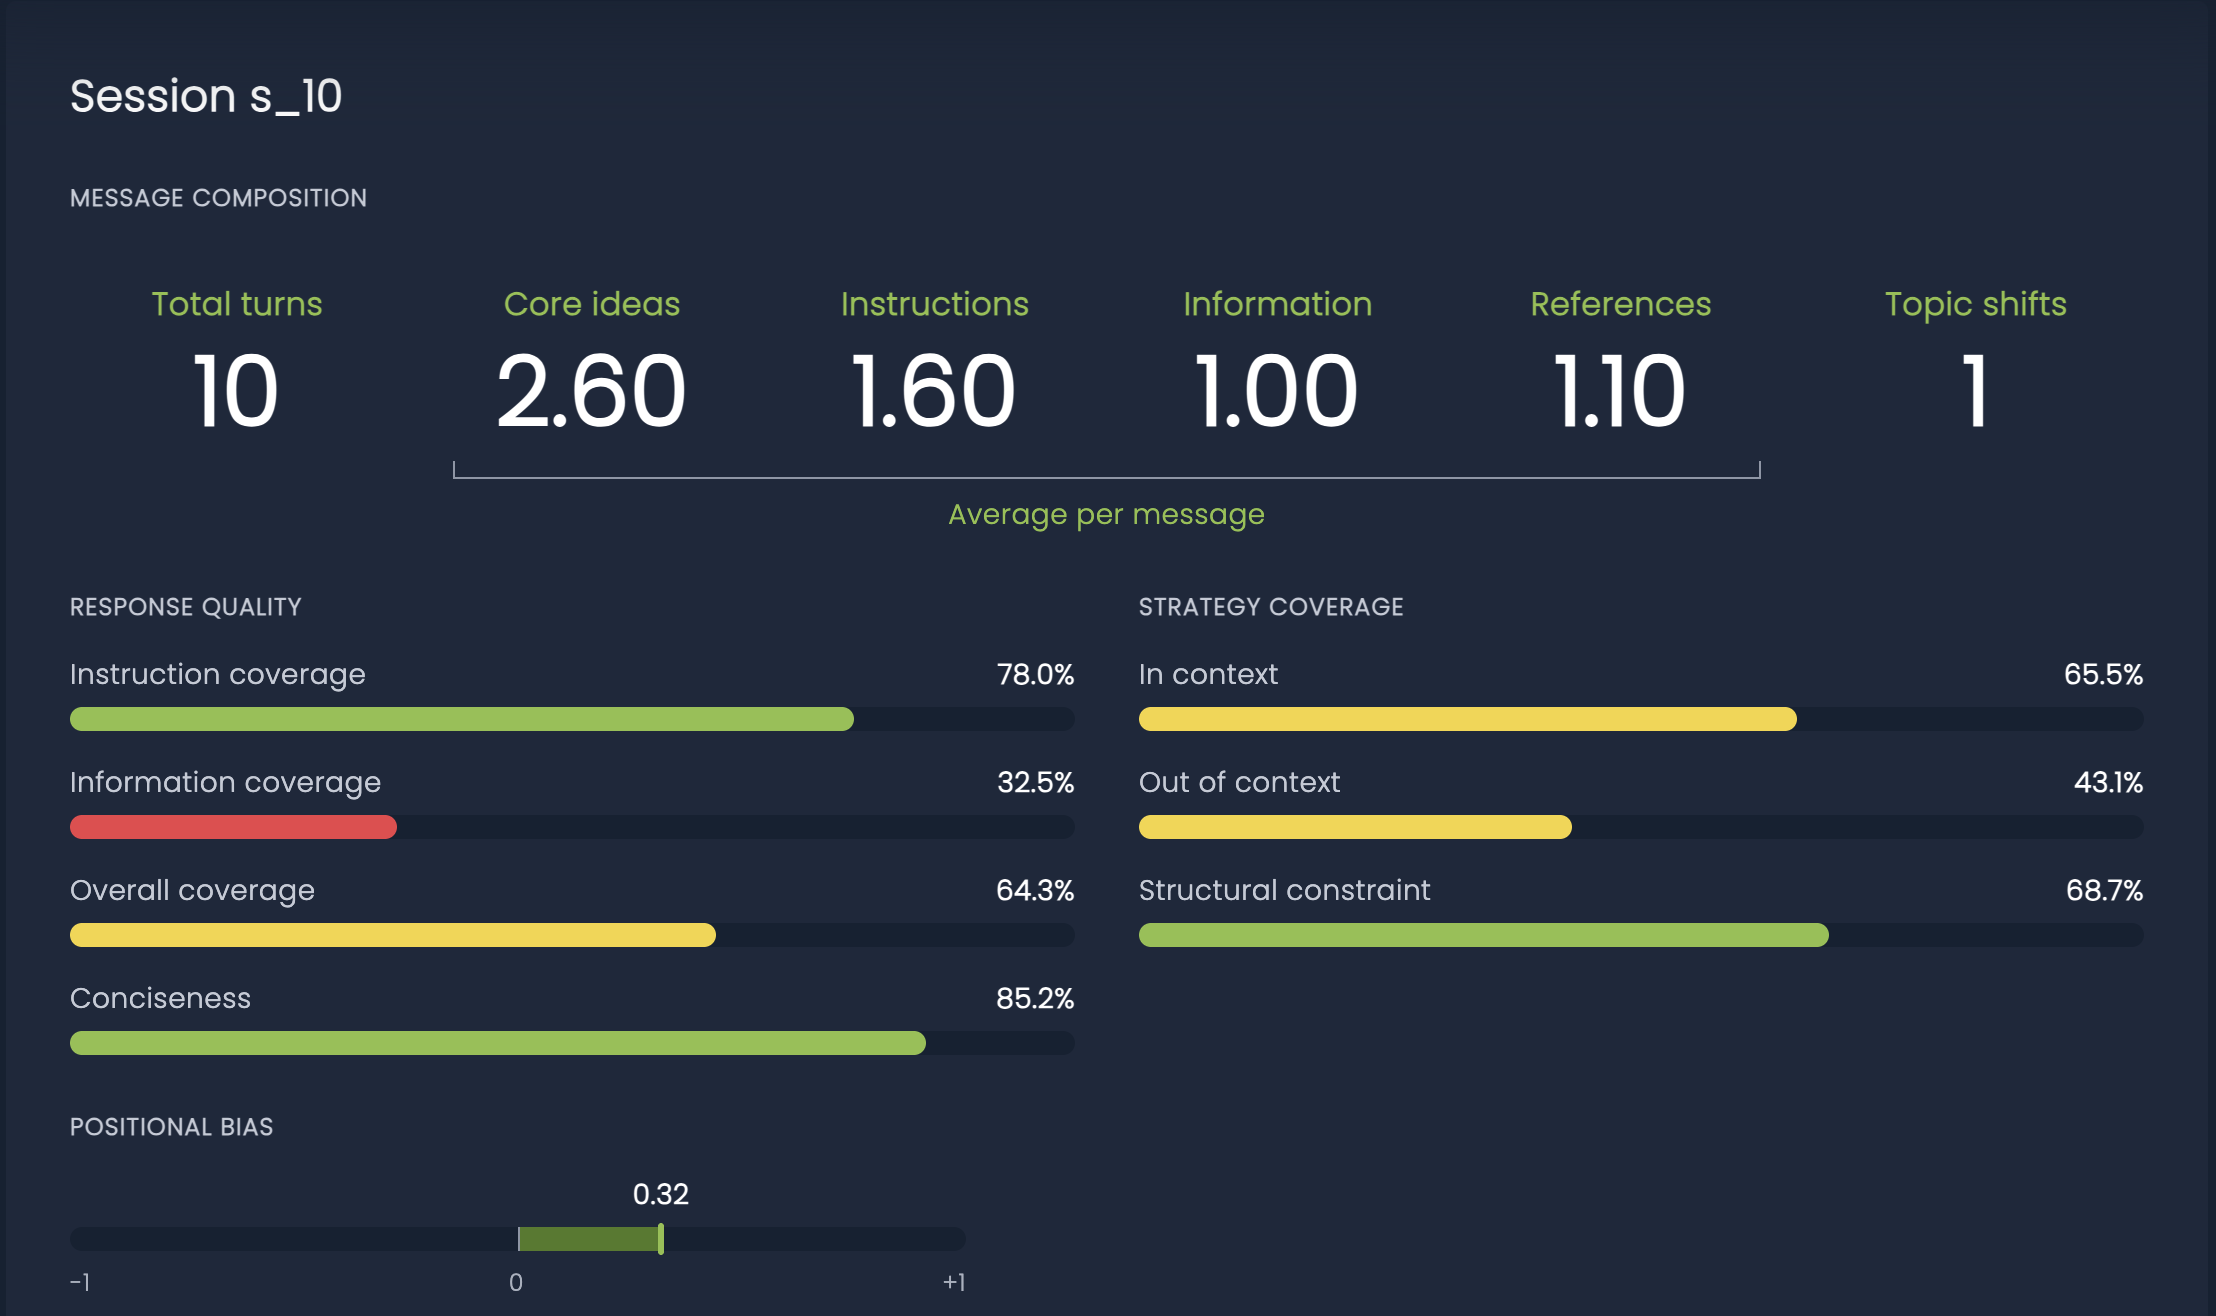
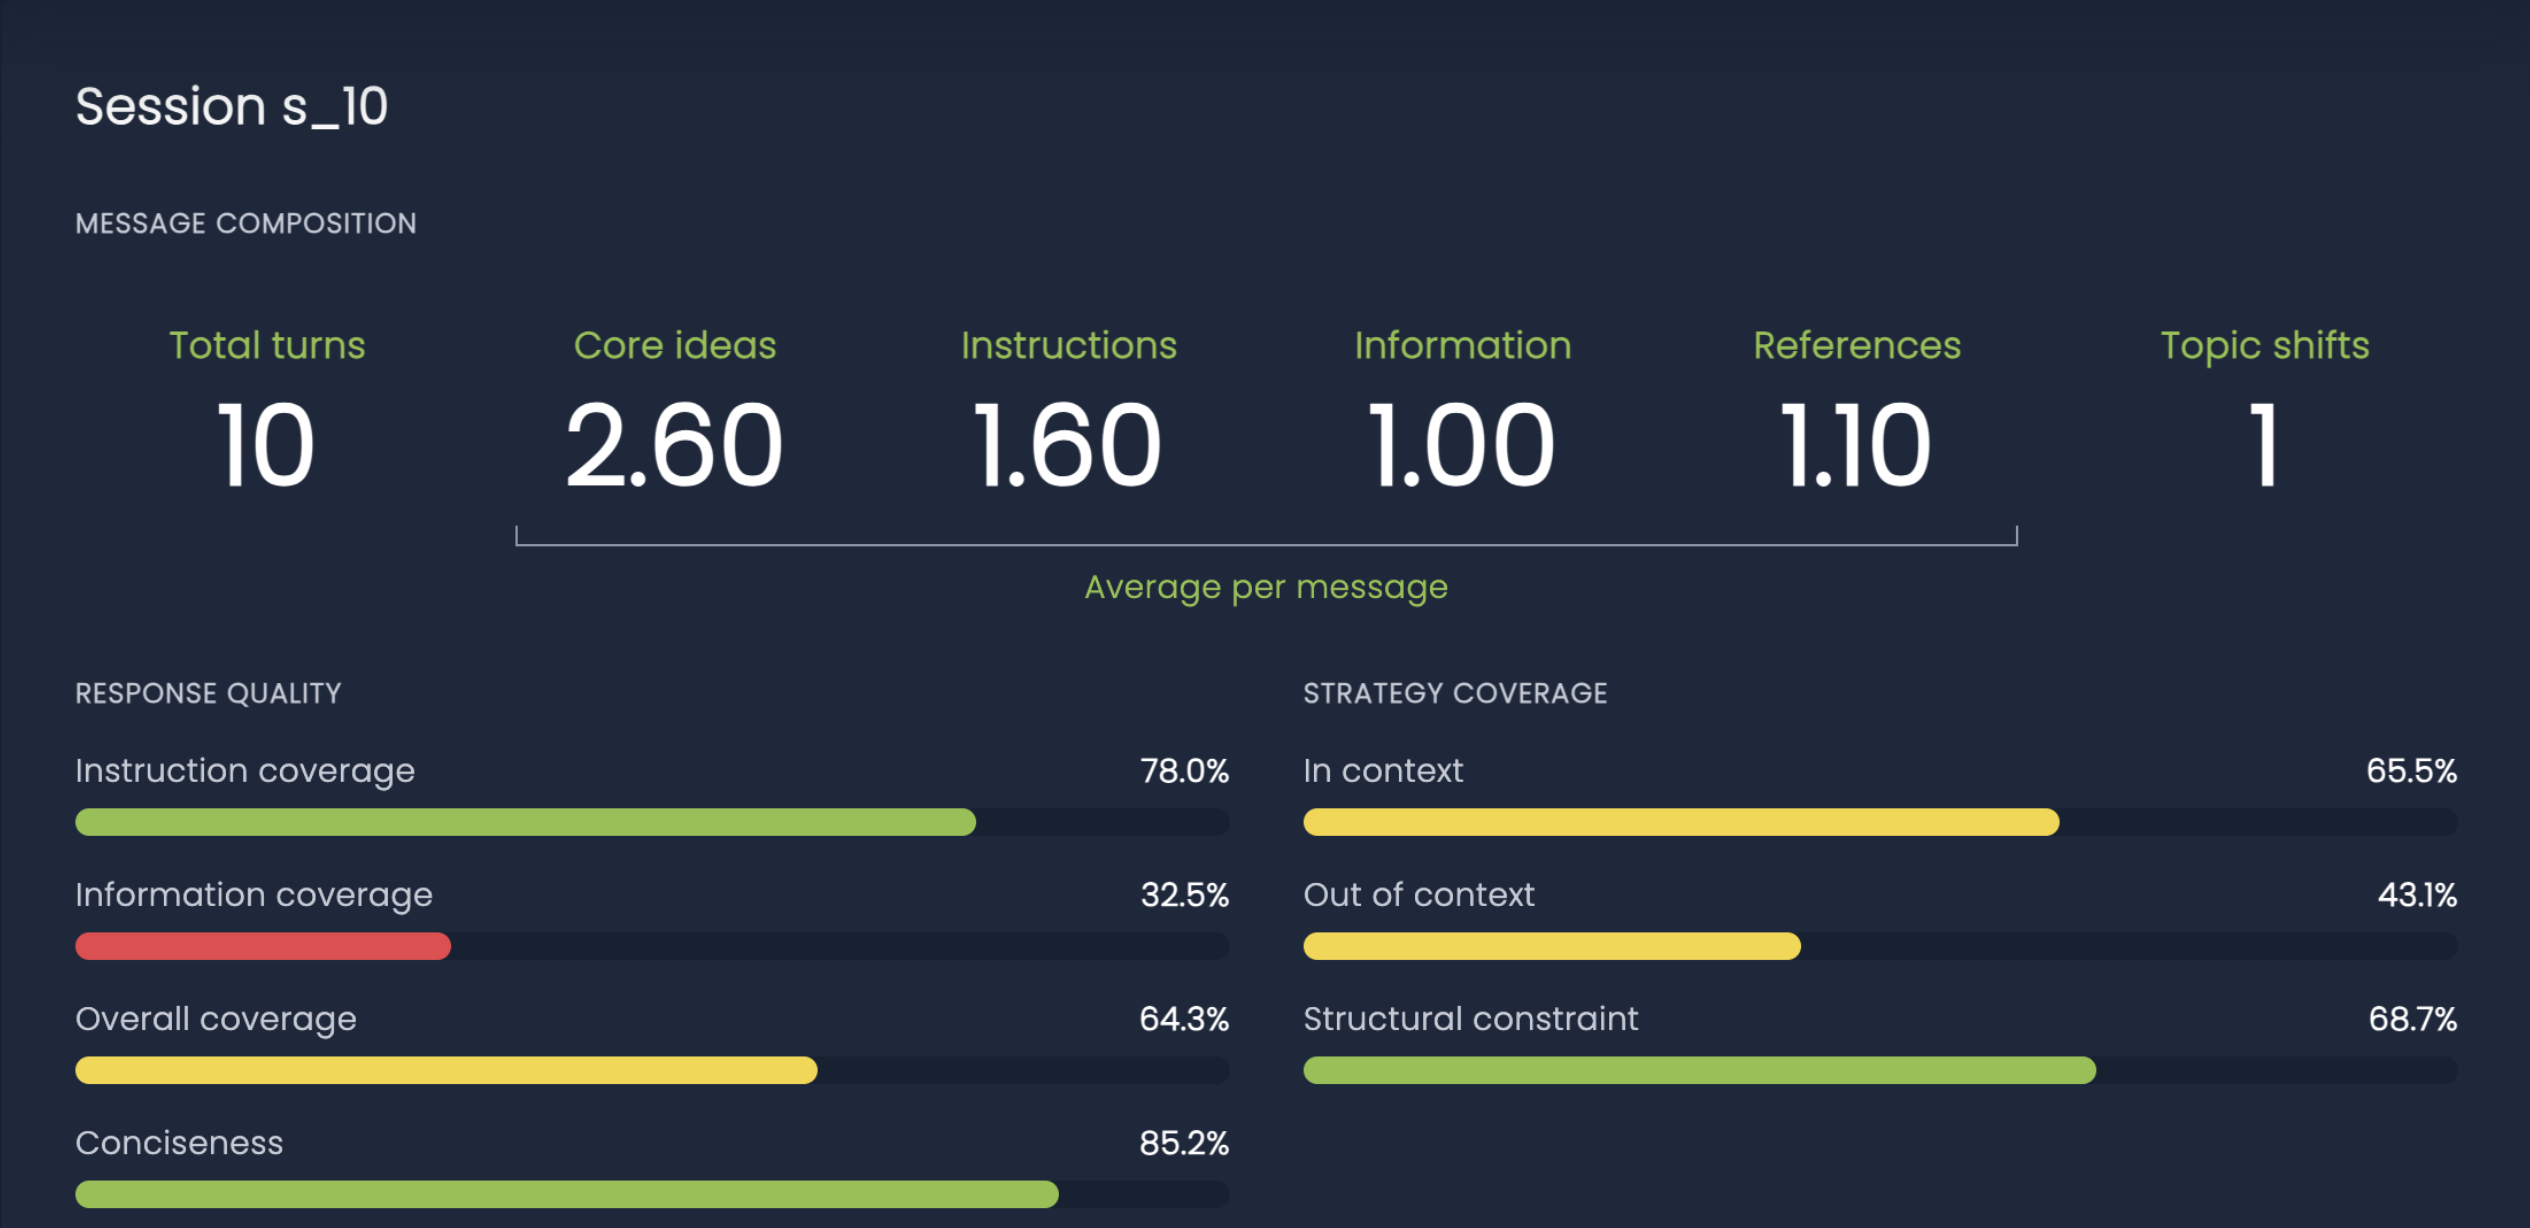
Positional bias change the range from [-1, 1] to [0, 100]

diff --git a/md-docs/user_guide/modules/multi_turn.md b/md-docs/user_guide/modules/multi_turn.md
@@ -125,8 +125,8 @@ Use the filter bar to narrow the list:
 Click a session card to open its analysis. Session-level scores are averages over the evaluated turns of that conversation.
 
 <figure markdown="span" style="display: inline-block; text-align: center; width: 100%;">
-  ![Session composition, quality, strategy and positional bias](../../imgs/multi_turn/session_overview_metrics.png)
-  <figcaption>Session-level composition, response quality, strategy coverage and positional bias.</figcaption>
+  ![Session composition, response quality and strategy coverage](../../imgs/multi_turn/session_overview_metrics.png)
+  <figcaption>Session-level composition, response quality and strategy coverage.</figcaption>
 </figure>
 
 ### Message composition
@@ -150,6 +150,7 @@ Quality bars are percentages from 0 to 100. Higher is better: green is high, yel
 | Information coverage | How well the response addresses informational core ideas, weighted by importance. | `TEXT_MULTI_TURN_INFORMATION` |
 | Overall coverage | Importance-weighted coverage across all core ideas. | `TEXT_MULTI_TURN_OVERALL` |
 | Conciseness | How close the response length is to a concise summary of itself. A long, redundant answer scores lower than a compact one. | `TEXT_MULTI_TURN_CONCISENESS` |
+| Positional bias | How little the position of a core idea in the user message affects how well it is answered. Higher means less bias. | `TEXT_MULTI_TURN_POSITIONAL_BIAS` |
 
 ### Strategy coverage
 
@@ -160,16 +161,6 @@ Each core idea can be tagged with one or more response strategies. Session bars 
 | In context | The core idea can be answered from the retrieved context. | `TEXT_MULTI_TURN_IN_CONTEXT` |
 | Out of context | The core idea is not grounded in the retrieved context. | `TEXT_MULTI_TURN_OUT_OF_CONTEXT` |
 | Structural constraint | The core idea imposes a format or structure (for example "reply with one capital word"). | `TEXT_MULTI_TURN_STRUCTURAL_CONSTRAINT` |
-
-### Positional bias
-
-The session **positional bias** gauge ranges from **-1** to **+1**. It is the mean correlation between core-idea **evaluation score** and **position** in the user message:
-
-- Values near **0** mean the model treats early and late ideas similarly.
-- **Positive** values mean later ideas in the message are answered better.
-- **Negative** values mean earlier ideas are answered better.
-
-This is the session view of the `TEXT_MULTI_TURN_POSITIONAL_BIAS` monitoring metric.
 
 ### Coverage across turns
 
@@ -262,7 +253,7 @@ The bottom of the turn panel summarises length, aggregate scores and correlation
 | Eval score vs importance | Whether important ideas are also the ones answered well. |
 | Eval score vs position | Whether later (or earlier) ideas in the message are answered better. |
 | Importance vs position | Whether important ideas appear later (or earlier) in the message. |
-| Positional bias | Turn-level bias score from 0 to 100, derived from the partial correlation of score vs position given importance. |
+| Positional bias | How little the position of ideas in the message affects how well they are answered. Higher means less bias. |
 
 When the three pairwise correlations form a valid triangle, they are drawn as a graph. Otherwise the values are shown as a table.
 

diff --git a/md-docs/user_guide/monitoring/index.md b/md-docs/user_guide/monitoring/index.md
@@ -126,7 +126,7 @@ This table is subject to changes, as new metrics will be added in the future.
 | TEXT MULTI TURN IN CONTEXT | Coverage of core ideas that can be answered from the retrieved context | PREDICTION | When the Task is a multi-turn RAG Task | A floating point value in $[0, 100]$ | |
 | TEXT MULTI TURN OUT OF CONTEXT | Coverage of core ideas that are not grounded in the retrieved context | PREDICTION | When the Task is a multi-turn RAG Task | A floating point value in $[0, 100]$ | |
 | TEXT MULTI TURN STRUCTURAL CONSTRAINT | Coverage of format or structure constraints in the user message | PREDICTION | When the Task is a multi-turn RAG Task | A floating point value in $[0, 100]$ | |
-| TEXT MULTI TURN POSITIONAL BIAS | Whether earlier or later core ideas in the message are answered better | PREDICTION | When the Task is a multi-turn RAG Task | A floating point value in $[0, 100]$ | |
+| TEXT MULTI TURN POSITIONAL BIAS | How little position in the user message affects the evaluation score. Higher means less bias | PREDICTION | When the Task is a multi-turn RAG Task | A floating point value in $[0, 100]$ | |
 | TEXT MULTI TURN CONCISENESS | How close the response length is to a concise summary of itself | PREDICTION | When the Task is a multi-turn RAG Task | A floating point value in $[0, 100]$ | |
 | TEXT MULTI TURN REFERENCE RESOLUTION | How well the response resolves references to earlier turns | PREDICTION | When the Task is a multi-turn RAG Task | A floating point value in $[0, 100]$ | |
 | TEXT MULTI TURN TOPIC SHIFT | How well the response follows a detected topic change | PREDICTION | When the Task is a multi-turn RAG Task | A floating point value in $[0, 100]$ | |
